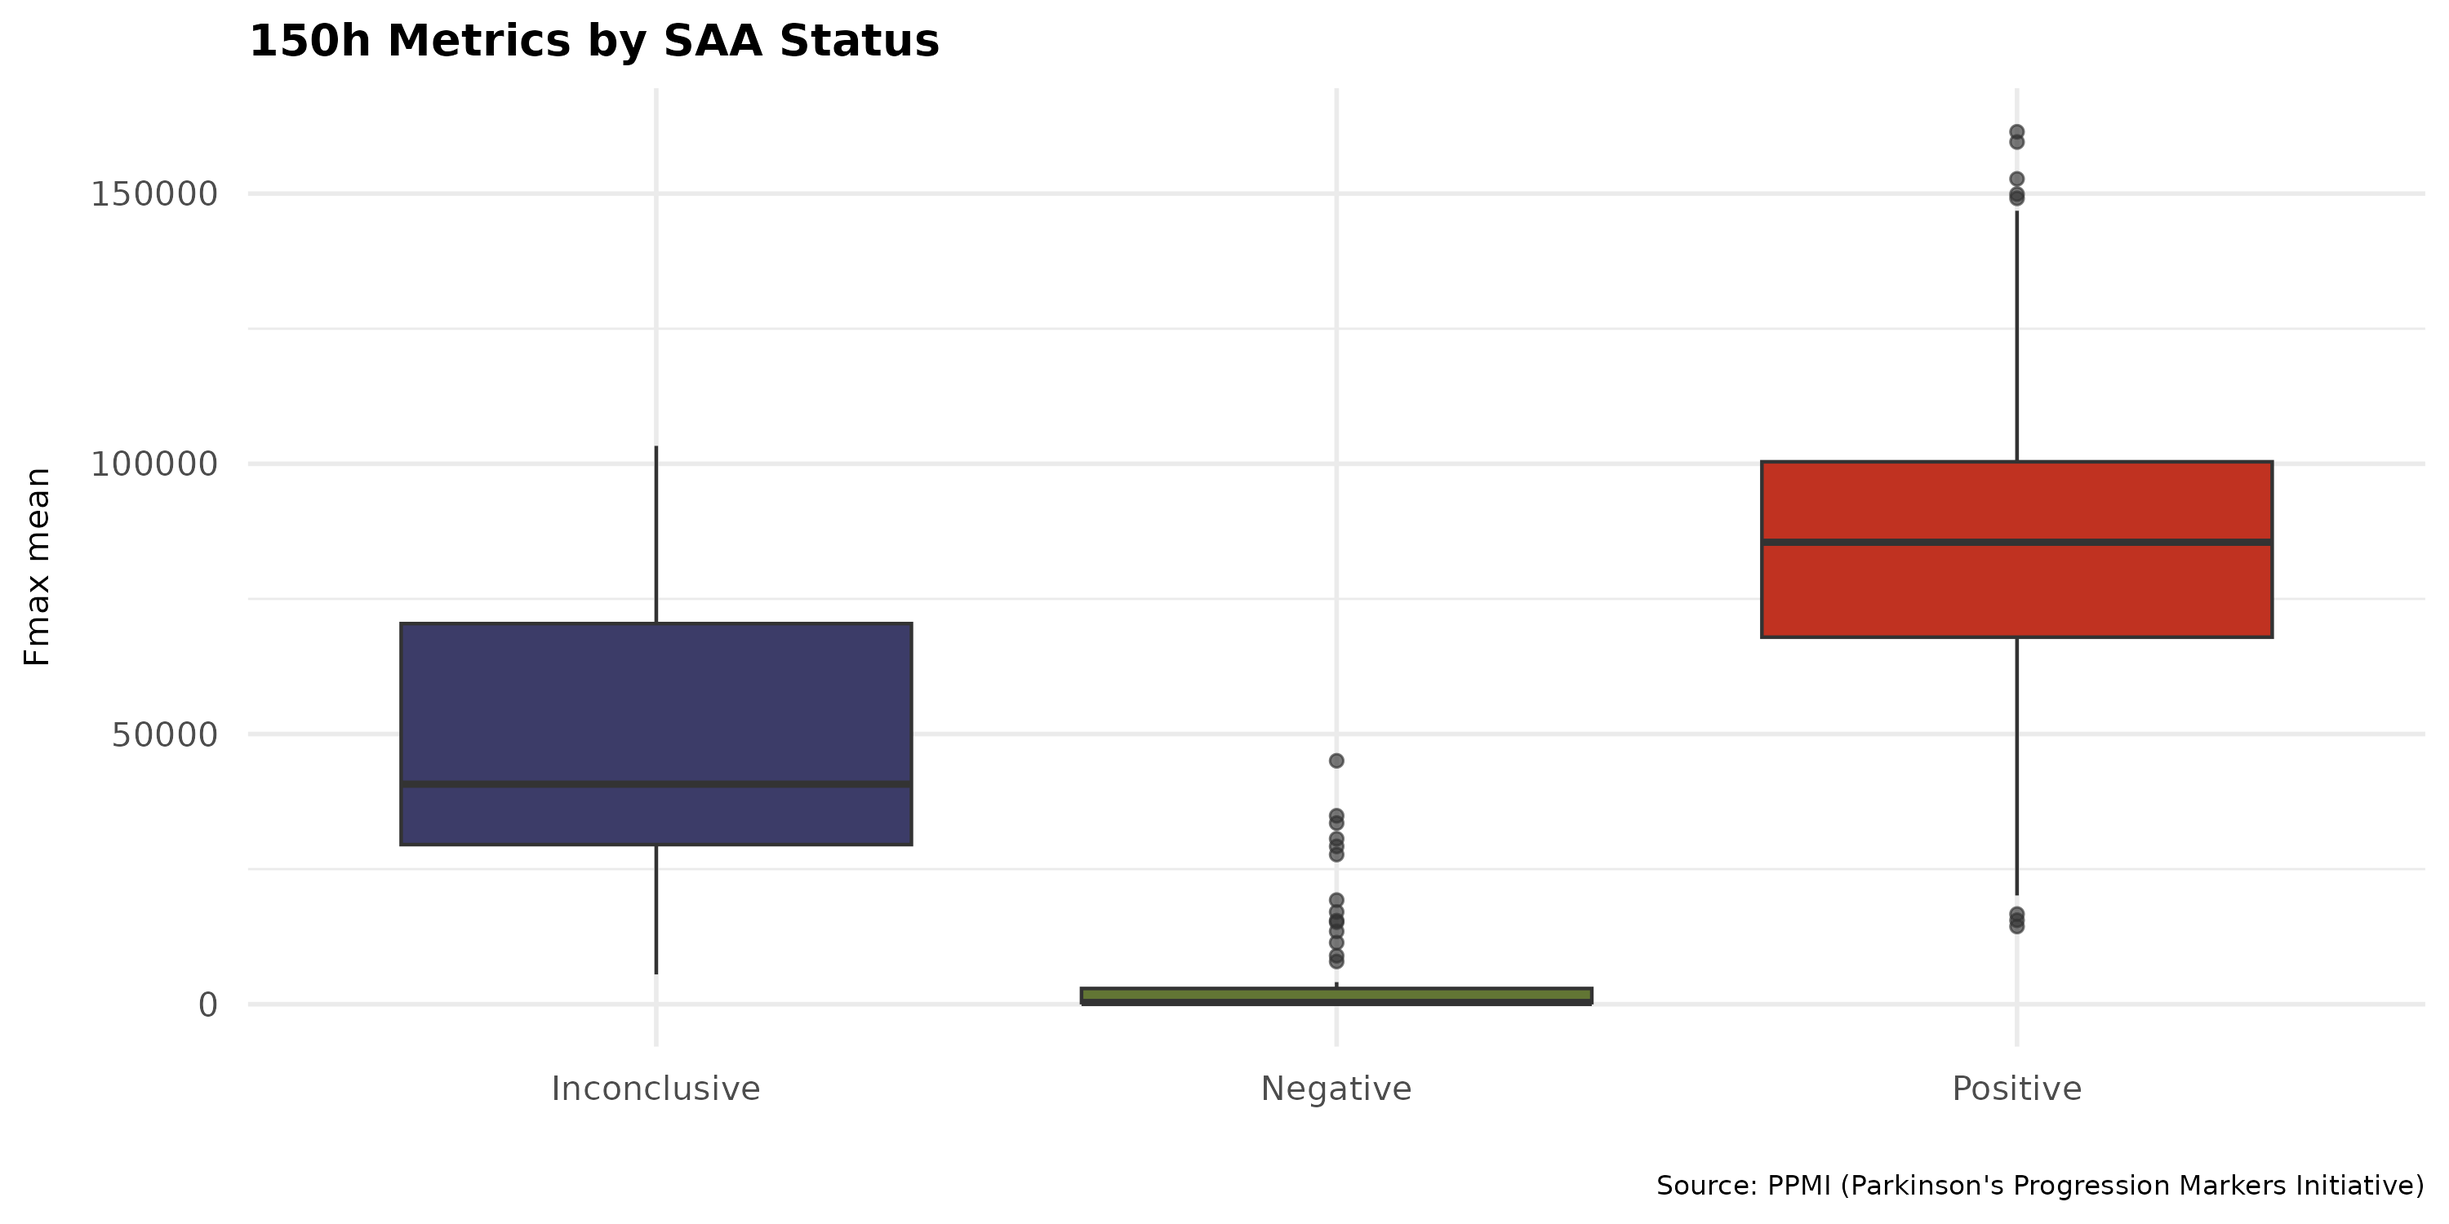
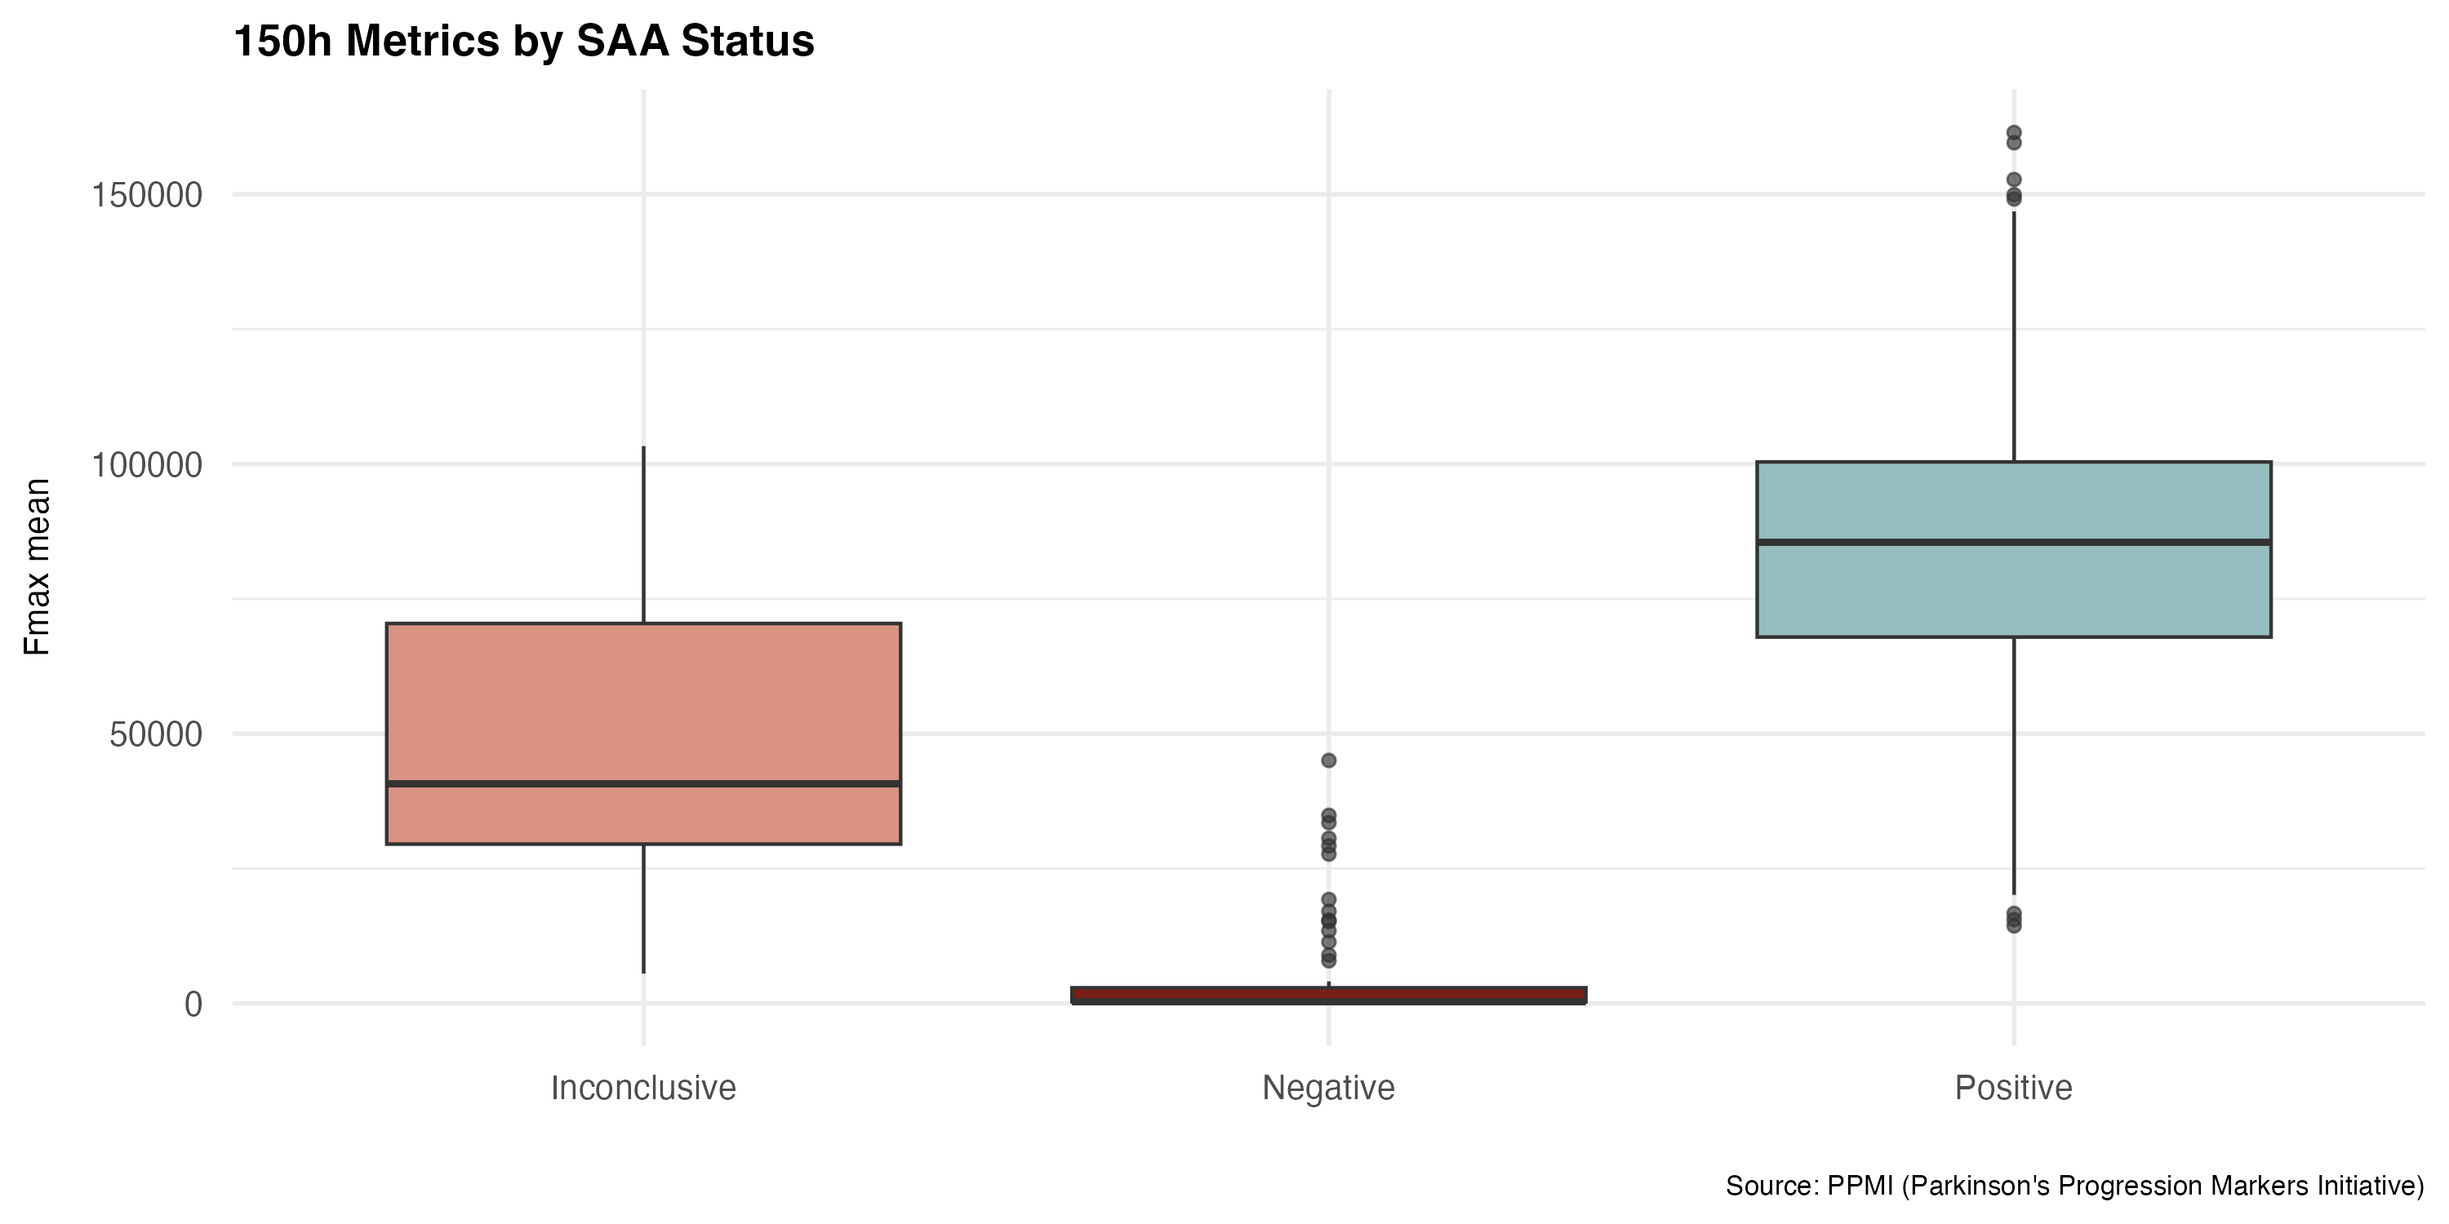
refering to plot in presentation, and changing color in plot

diff --git a/doc/presentation.html b/doc/presentation.html
@@ -6,8 +6,8 @@
 <script src="presentation_files/libs/quarto-html/tippy.umd.min.js"></script>
 <link href="presentation_files/libs/quarto-html/tippy.css" rel="stylesheet">
 <link href="presentation_files/libs/quarto-html/light-border.css" rel="stylesheet">
-<link href="presentation_files/libs/quarto-html/quarto-syntax-highlighting-587c61ba64f3a5504c4d52d930310e48.css" rel="stylesheet" id="quarto-text-highlighting-styles"><meta charset="utf-8">
-  <meta name="generator" content="quarto-1.8.26">
+<link href="presentation_files/libs/quarto-html/quarto-syntax-highlighting-2f5df379a58b258e96c21c0638c20c03.css" rel="stylesheet" id="quarto-text-highlighting-styles"><meta charset="utf-8">
+  <meta name="generator" content="quarto-1.6.42">
 
   <meta name="author" content="Malaika Khiljee">
   <meta name="author" content="Karolina Nordkamp">
@@ -33,7 +33,7 @@
       vertical-align: middle;
     }
   </style>
-  <link rel="stylesheet" href="presentation_files/libs/revealjs/dist/theme/quarto-0fde88a82f0356838740f155f1088782.css">
+  <link rel="stylesheet" href="presentation_files/libs/revealjs/dist/theme/quarto-8f3eebe07241f08526c91a7e9cbef8fd.css">
   <link href="presentation_files/libs/revealjs/plugin/quarto-line-highlight/line-highlight.css" rel="stylesheet">
   <link href="presentation_files/libs/revealjs/plugin/reveal-menu/menu.css" rel="stylesheet">
   <link href="presentation_files/libs/revealjs/plugin/reveal-menu/quarto-menu.css" rel="stylesheet">
@@ -393,8 +393,8 @@ Andreas Nielsen
 <li><p>AUC, SLOPE, T50 and TTT <br><br><br></p></li>
 </ul>
 </div><div class="column" style="width:60%;">
-<p><img data-src="images/09_Fmax_mean_results_24h.png" width="425"></p>
-<p><img data-src="images/09_Fmax_mean_results_150h.png" width="424"></p>
+<p><img data-src="../results/06_fmax_mean_results_24h.png" width="600"></p>
+<p><img data-src="../results/06_fmax_mean_results_150h.png" width="600"></p>
 </div></div>
 </section>
 <section id="inconsistencies-in-the-two-projects-replicates" class="slide level2">
@@ -673,7 +673,7 @@ Andreas Nielsen
         margin: 0.1,
 
         math: {
-          mathjax: 'https://cdn.jsdelivr.net/npm/mathjax@2.7.9/MathJax.js',
+          mathjax: 'https://cdnjs.cloudflare.com/ajax/libs/mathjax/2.7.9/MathJax.js',
           config: 'TeX-AMS_HTML-full',
           tex2jax: {
             inlineMath: [['\\(','\\)']],
@@ -700,173 +700,190 @@ Andreas Nielsen
       });
     </script>
     <script id="quarto-html-after-body" type="application/javascript">
-      window.document.addEventListener("DOMContentLoaded", function (event) {
-        const tabsets =  window.document.querySelectorAll(".panel-tabset-tabby")
-        tabsets.forEach(function(tabset) {
-          const tabby = new Tabby('#' + tabset.id);
-        });
-        const isCodeAnnotation = (el) => {
-          for (const clz of el.classList) {
-            if (clz.startsWith('code-annotation-')) {                     
-              return true;
-            }
-          }
-          return false;
+    window.document.addEventListener("DOMContentLoaded", function (event) {
+      const toggleBodyColorMode = (bsSheetEl) => {
+        const mode = bsSheetEl.getAttribute("data-mode");
+        const bodyEl = window.document.querySelector("body");
+        if (mode === "dark") {
+          bodyEl.classList.add("quarto-dark");
+          bodyEl.classList.remove("quarto-light");
+        } else {
+          bodyEl.classList.add("quarto-light");
+          bodyEl.classList.remove("quarto-dark");
         }
-        const onCopySuccess = function(e) {
-          // button target
-          const button = e.trigger;
-          // don't keep focus
-          button.blur();
-          // flash "checked"
-          button.classList.add('code-copy-button-checked');
-          var currentTitle = button.getAttribute("title");
-          button.setAttribute("title", "Copied!");
-          let tooltip;
-          if (window.bootstrap) {
-            button.setAttribute("data-bs-toggle", "tooltip");
-            button.setAttribute("data-bs-placement", "left");
-            button.setAttribute("data-bs-title", "Copied!");
-            tooltip = new bootstrap.Tooltip(button, 
-              { trigger: "manual", 
-                customClass: "code-copy-button-tooltip",
-                offset: [0, -8]});
-            tooltip.show();    
-          }
-          setTimeout(function() {
-            if (tooltip) {
-              tooltip.hide();
-              button.removeAttribute("data-bs-title");
-              button.removeAttribute("data-bs-toggle");
-              button.removeAttribute("data-bs-placement");
-            }
-            button.setAttribute("title", currentTitle);
-            button.classList.remove('code-copy-button-checked');
-          }, 1000);
-          // clear code selection
-          e.clearSelection();
+      }
+      const toggleBodyColorPrimary = () => {
+        const bsSheetEl = window.document.querySelector("link#quarto-bootstrap");
+        if (bsSheetEl) {
+          toggleBodyColorMode(bsSheetEl);
         }
-        const getTextToCopy = function(trigger) {
-          const outerScaffold = trigger.parentElement.cloneNode(true);
-          const codeEl = outerScaffold.querySelector('code');
+      }
+      toggleBodyColorPrimary();  
+      const tabsets =  window.document.querySelectorAll(".panel-tabset-tabby")
+      tabsets.forEach(function(tabset) {
+        const tabby = new Tabby('#' + tabset.id);
+      });
+      const isCodeAnnotation = (el) => {
+        for (const clz of el.classList) {
+          if (clz.startsWith('code-annotation-')) {                     
+            return true;
+          }
+        }
+        return false;
+      }
+      const onCopySuccess = function(e) {
+        // button target
+        const button = e.trigger;
+        // don't keep focus
+        button.blur();
+        // flash "checked"
+        button.classList.add('code-copy-button-checked');
+        var currentTitle = button.getAttribute("title");
+        button.setAttribute("title", "Copied!");
+        let tooltip;
+        if (window.bootstrap) {
+          button.setAttribute("data-bs-toggle", "tooltip");
+          button.setAttribute("data-bs-placement", "left");
+          button.setAttribute("data-bs-title", "Copied!");
+          tooltip = new bootstrap.Tooltip(button, 
+            { trigger: "manual", 
+              customClass: "code-copy-button-tooltip",
+              offset: [0, -8]});
+          tooltip.show();    
+        }
+        setTimeout(function() {
+          if (tooltip) {
+            tooltip.hide();
+            button.removeAttribute("data-bs-title");
+            button.removeAttribute("data-bs-toggle");
+            button.removeAttribute("data-bs-placement");
+          }
+          button.setAttribute("title", currentTitle);
+          button.classList.remove('code-copy-button-checked');
+        }, 1000);
+        // clear code selection
+        e.clearSelection();
+      }
+      const getTextToCopy = function(trigger) {
+          const codeEl = trigger.previousElementSibling.cloneNode(true);
           for (const childEl of codeEl.children) {
             if (isCodeAnnotation(childEl)) {
               childEl.remove();
             }
           }
           return codeEl.innerText;
-        }
-        const clipboard = new window.ClipboardJS('.code-copy-button:not([data-in-quarto-modal])', {
-          text: getTextToCopy
-        });
-        clipboard.on('success', onCopySuccess);
-        if (window.document.getElementById('quarto-embedded-source-code-modal')) {
-          const clipboardModal = new window.ClipboardJS('.code-copy-button[data-in-quarto-modal]', {
-            text: getTextToCopy,
-            container: window.document.getElementById('quarto-embedded-source-code-modal')
-          });
-          clipboardModal.on('success', onCopySuccess);
-        }
-          var localhostRegex = new RegExp(/^(?:http|https):\/\/localhost\:?[0-9]*\//);
-          var mailtoRegex = new RegExp(/^mailto:/);
-            var filterRegex = new RegExp('/' + window.location.host + '/');
-          var isInternal = (href) => {
-              return filterRegex.test(href) || localhostRegex.test(href) || mailtoRegex.test(href);
-          }
-          // Inspect non-navigation links and adorn them if external
-         var links = window.document.querySelectorAll('a[href]:not(.nav-link):not(.navbar-brand):not(.toc-action):not(.sidebar-link):not(.sidebar-item-toggle):not(.pagination-link):not(.no-external):not([aria-hidden]):not(.dropdown-item):not(.quarto-navigation-tool):not(.about-link)');
-          for (var i=0; i<links.length; i++) {
-            const link = links[i];
-            if (!isInternal(link.href)) {
-              // undo the damage that might have been done by quarto-nav.js in the case of
-              // links that we want to consider external
-              if (link.dataset.originalHref !== undefined) {
-                link.href = link.dataset.originalHref;
-              }
-            }
-          }
-        function tippyHover(el, contentFn, onTriggerFn, onUntriggerFn) {
-          const config = {
-            allowHTML: true,
-            maxWidth: 500,
-            delay: 100,
-            arrow: false,
-            appendTo: function(el) {
-                return el.closest('section.slide') || el.parentElement;
-            },
-            interactive: true,
-            interactiveBorder: 10,
-            theme: 'light-border',
-            placement: 'bottom-start',
-          };
-          if (contentFn) {
-            config.content = contentFn;
-          }
-          if (onTriggerFn) {
-            config.onTrigger = onTriggerFn;
-          }
-          if (onUntriggerFn) {
-            config.onUntrigger = onUntriggerFn;
-          }
-            config['offset'] = [0,0];
-            config['maxWidth'] = 700;
-          window.tippy(el, config); 
-        }
-        const noterefs = window.document.querySelectorAll('a[role="doc-noteref"]');
-        for (var i=0; i<noterefs.length; i++) {
-          const ref = noterefs[i];
-          tippyHover(ref, function() {
-            // use id or data attribute instead here
-            let href = ref.getAttribute('data-footnote-href') || ref.getAttribute('href');
-            try { href = new URL(href).hash; } catch {}
-            const id = href.replace(/^#\/?/, "");
-            const note = window.document.getElementById(id);
-            if (note) {
-              return note.innerHTML;
-            } else {
-              return "";
-            }
-          });
-        }
-        const findCites = (el) => {
-          const parentEl = el.parentElement;
-          if (parentEl) {
-            const cites = parentEl.dataset.cites;
-            if (cites) {
-              return {
-                el,
-                cites: cites.split(' ')
-              };
-            } else {
-              return findCites(el.parentElement)
-            }
-          } else {
-            return undefined;
-          }
-        };
-        var bibliorefs = window.document.querySelectorAll('a[role="doc-biblioref"]');
-        for (var i=0; i<bibliorefs.length; i++) {
-          const ref = bibliorefs[i];
-          const citeInfo = findCites(ref);
-          if (citeInfo) {
-            tippyHover(citeInfo.el, function() {
-              var popup = window.document.createElement('div');
-              citeInfo.cites.forEach(function(cite) {
-                var citeDiv = window.document.createElement('div');
-                citeDiv.classList.add('hanging-indent');
-                citeDiv.classList.add('csl-entry');
-                var biblioDiv = window.document.getElementById('ref-' + cite);
-                if (biblioDiv) {
-                  citeDiv.innerHTML = biblioDiv.innerHTML;
-                }
-                popup.appendChild(citeDiv);
-              });
-              return popup.innerHTML;
-            });
-          }
-        }
+      }
+      const clipboard = new window.ClipboardJS('.code-copy-button:not([data-in-quarto-modal])', {
+        text: getTextToCopy
       });
-      </script>
+      clipboard.on('success', onCopySuccess);
+      if (window.document.getElementById('quarto-embedded-source-code-modal')) {
+        const clipboardModal = new window.ClipboardJS('.code-copy-button[data-in-quarto-modal]', {
+          text: getTextToCopy,
+          container: window.document.getElementById('quarto-embedded-source-code-modal')
+        });
+        clipboardModal.on('success', onCopySuccess);
+      }
+        var localhostRegex = new RegExp(/^(?:http|https):\/\/localhost\:?[0-9]*\//);
+        var mailtoRegex = new RegExp(/^mailto:/);
+          var filterRegex = new RegExp('/' + window.location.host + '/');
+        var isInternal = (href) => {
+            return filterRegex.test(href) || localhostRegex.test(href) || mailtoRegex.test(href);
+        }
+        // Inspect non-navigation links and adorn them if external
+     	var links = window.document.querySelectorAll('a[href]:not(.nav-link):not(.navbar-brand):not(.toc-action):not(.sidebar-link):not(.sidebar-item-toggle):not(.pagination-link):not(.no-external):not([aria-hidden]):not(.dropdown-item):not(.quarto-navigation-tool):not(.about-link)');
+        for (var i=0; i<links.length; i++) {
+          const link = links[i];
+          if (!isInternal(link.href)) {
+            // undo the damage that might have been done by quarto-nav.js in the case of
+            // links that we want to consider external
+            if (link.dataset.originalHref !== undefined) {
+              link.href = link.dataset.originalHref;
+            }
+          }
+        }
+      function tippyHover(el, contentFn, onTriggerFn, onUntriggerFn) {
+        const config = {
+          allowHTML: true,
+          maxWidth: 500,
+          delay: 100,
+          arrow: false,
+          appendTo: function(el) {
+              return el.closest('section.slide') || el.parentElement;
+          },
+          interactive: true,
+          interactiveBorder: 10,
+          theme: 'light-border',
+          placement: 'bottom-start',
+        };
+        if (contentFn) {
+          config.content = contentFn;
+        }
+        if (onTriggerFn) {
+          config.onTrigger = onTriggerFn;
+        }
+        if (onUntriggerFn) {
+          config.onUntrigger = onUntriggerFn;
+        }
+          config['offset'] = [0,0];
+          config['maxWidth'] = 700;
+        window.tippy(el, config); 
+      }
+      const noterefs = window.document.querySelectorAll('a[role="doc-noteref"]');
+      for (var i=0; i<noterefs.length; i++) {
+        const ref = noterefs[i];
+        tippyHover(ref, function() {
+          // use id or data attribute instead here
+          let href = ref.getAttribute('data-footnote-href') || ref.getAttribute('href');
+          try { href = new URL(href).hash; } catch {}
+          const id = href.replace(/^#\/?/, "");
+          const note = window.document.getElementById(id);
+          if (note) {
+            return note.innerHTML;
+          } else {
+            return "";
+          }
+        });
+      }
+      const findCites = (el) => {
+        const parentEl = el.parentElement;
+        if (parentEl) {
+          const cites = parentEl.dataset.cites;
+          if (cites) {
+            return {
+              el,
+              cites: cites.split(' ')
+            };
+          } else {
+            return findCites(el.parentElement)
+          }
+        } else {
+          return undefined;
+        }
+      };
+      var bibliorefs = window.document.querySelectorAll('a[role="doc-biblioref"]');
+      for (var i=0; i<bibliorefs.length; i++) {
+        const ref = bibliorefs[i];
+        const citeInfo = findCites(ref);
+        if (citeInfo) {
+          tippyHover(citeInfo.el, function() {
+            var popup = window.document.createElement('div');
+            citeInfo.cites.forEach(function(cite) {
+              var citeDiv = window.document.createElement('div');
+              citeDiv.classList.add('hanging-indent');
+              citeDiv.classList.add('csl-entry');
+              var biblioDiv = window.document.getElementById('ref-' + cite);
+              if (biblioDiv) {
+                citeDiv.innerHTML = biblioDiv.innerHTML;
+              }
+              popup.appendChild(citeDiv);
+            });
+            return popup.innerHTML;
+          });
+        }
+      }
+    });
+    </script>
     
 
 </body></html>
